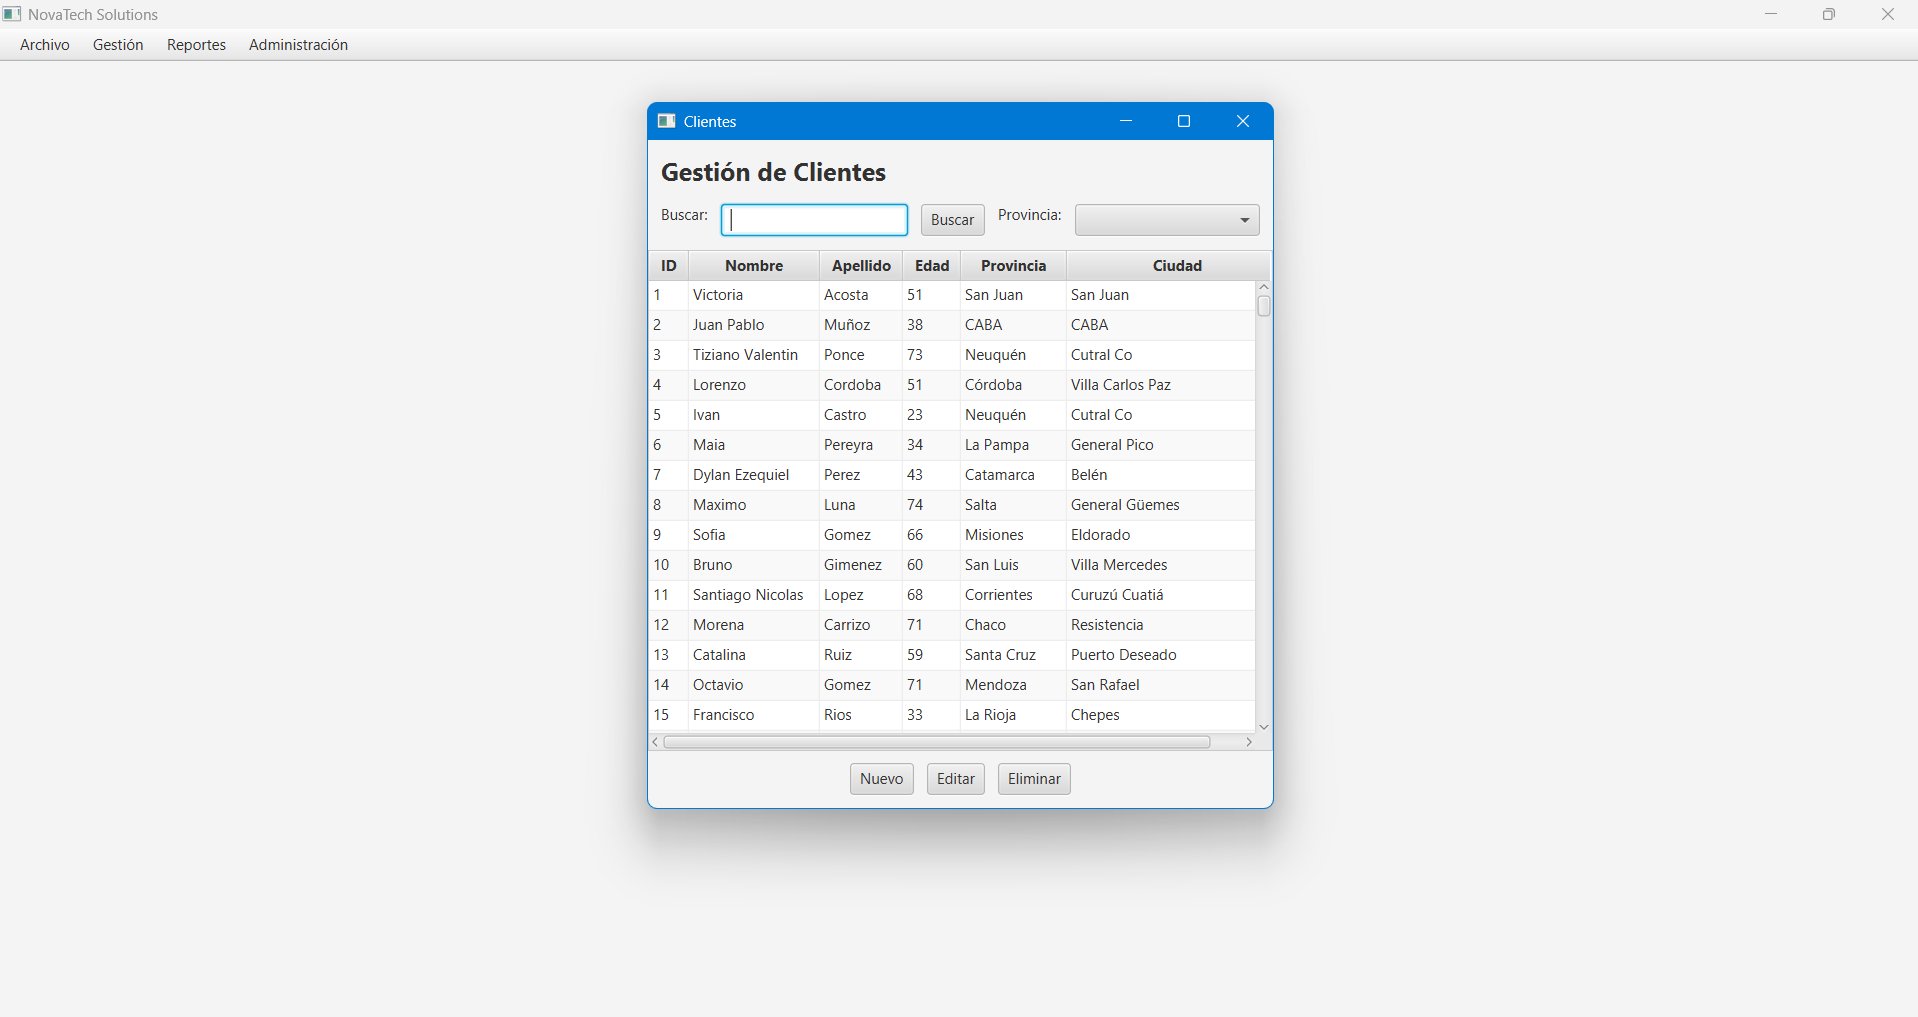
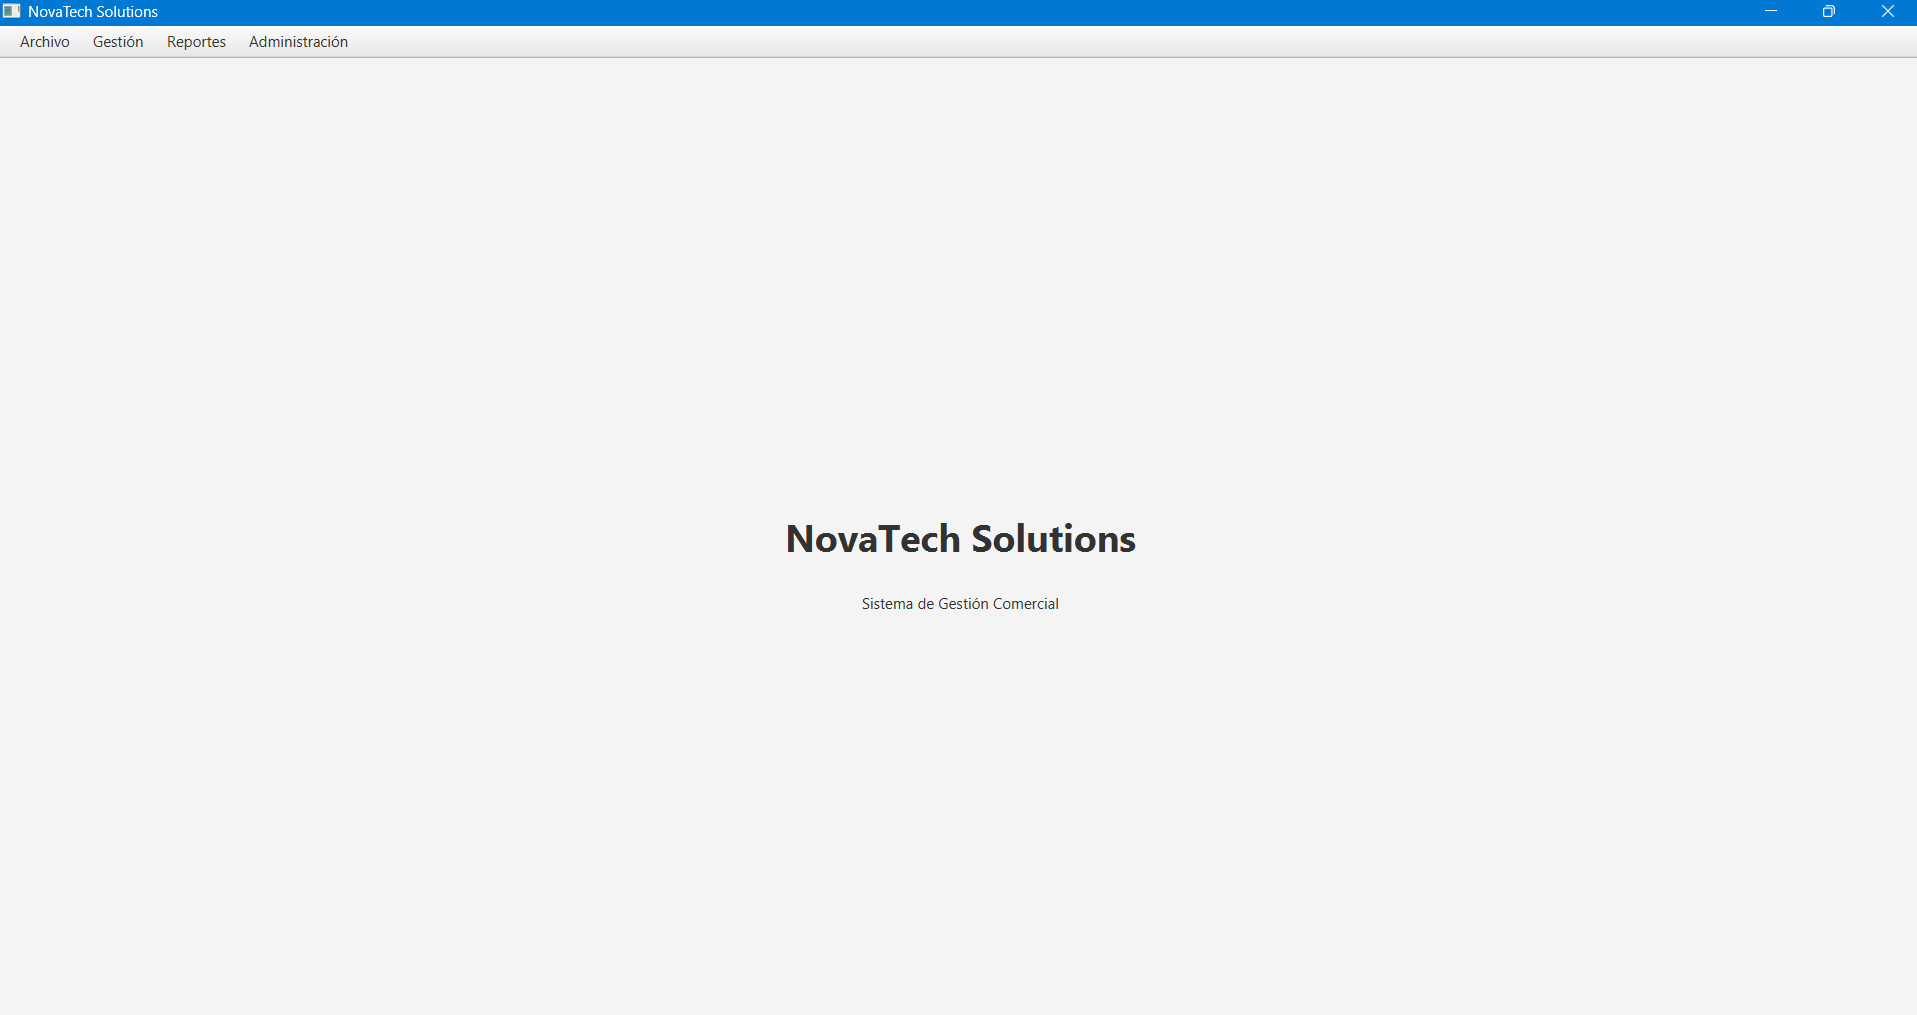
Soluciono fallas en sitio web de portfolio y agrego capturas faltantes

Changed region(s): [[0.3078, 0.0916, 0.6771, 0.8552], [0.0, 0.0, 1.0, 0.0611], [0.5232, 0.1833, 0.554, 0.2138]]

diff --git a/portfolio/index.html b/portfolio/index.html
@@ -74,12 +74,6 @@
 
 <body>
 
-    <button id="btn-arriba">
-
-        <i class="fas fa-arrow-up"></i>
-
-    </button>
-
     <header>
 
         <nav class="navbar">
@@ -763,7 +757,7 @@
 
                 <div class="stat-card">
 
-                    <<h3 data-numero="100">0</h3>
+                    <h3 data-numero="100">0</h3>
 
                     <p>
 

diff --git a/portfolio/js/main.js b/portfolio/js/main.js
@@ -287,7 +287,7 @@ const capturas = [
 
 let capturaActual = 0;
 
-if(imagenProyecto){
+if(imagenProyecto && capturas.length > 1){
 
     setInterval(()=>{
 

diff --git a/portfolio/README.md b/portfolio/README.md
@@ -22,9 +22,9 @@ El objetivo es ofrecer una presentación clara y moderna para reclutadores y emp
 ## 🛠 Tecnologías
 
 - HTML5
-- CSS3
-- JavaScript
-- Bootstrap 5
+- CSS3 (custom, sin frameworks)
+- JavaScript (vanilla)
+- Font Awesome (íconos)
 - Git
 - GitHub Pages
 
@@ -97,25 +97,30 @@ Repositorio:
 
 ## 💻 Instalación
 
-Clonar el repositorio:
+Este sitio vive dentro del repo de NovaTech Solutions, en la carpeta `portfolio/` (no es un repositorio aparte).
+
+Clonar el repositorio principal:
 
 ```bash
-git clone https://github.com/AgusLuzu2004/portfolio.git
+git clone https://github.com/AgusLuzu2004/Portfolio-Novatech-Solutions.git
 ```
 
 Abrir el archivo:
 
 ```text
-index.html
+portfolio/index.html
 ```
 
-O desplegarlo mediante GitHub Pages.
+## 🌐 Publicarlo con GitHub Pages
+
+GitHub Pages, en su configuración simple, solo sirve desde la raíz del repo o desde `/docs` — y `/docs` ya se usa acá para la documentación técnica del proyecto. Para publicar este sitio hay dos opciones:
+
+1. Crear un repositorio aparte (por ejemplo `AgusLuzu2004.github.io`) y subir ahí el contenido de `portfolio/`.
+2. Agregar un workflow de GitHub Actions que copie `portfolio/` a una rama `gh-pages`.
 
 ## 🌐 Demo
 
-Cuando el proyecto esté publicado:
-
-<https://AgusLuzu2004.github.io/>
+<https://AgusLuzu2004.github.io/> (una vez publicado con alguna de las opciones de arriba)
 
 ## 📬 Contacto
 
